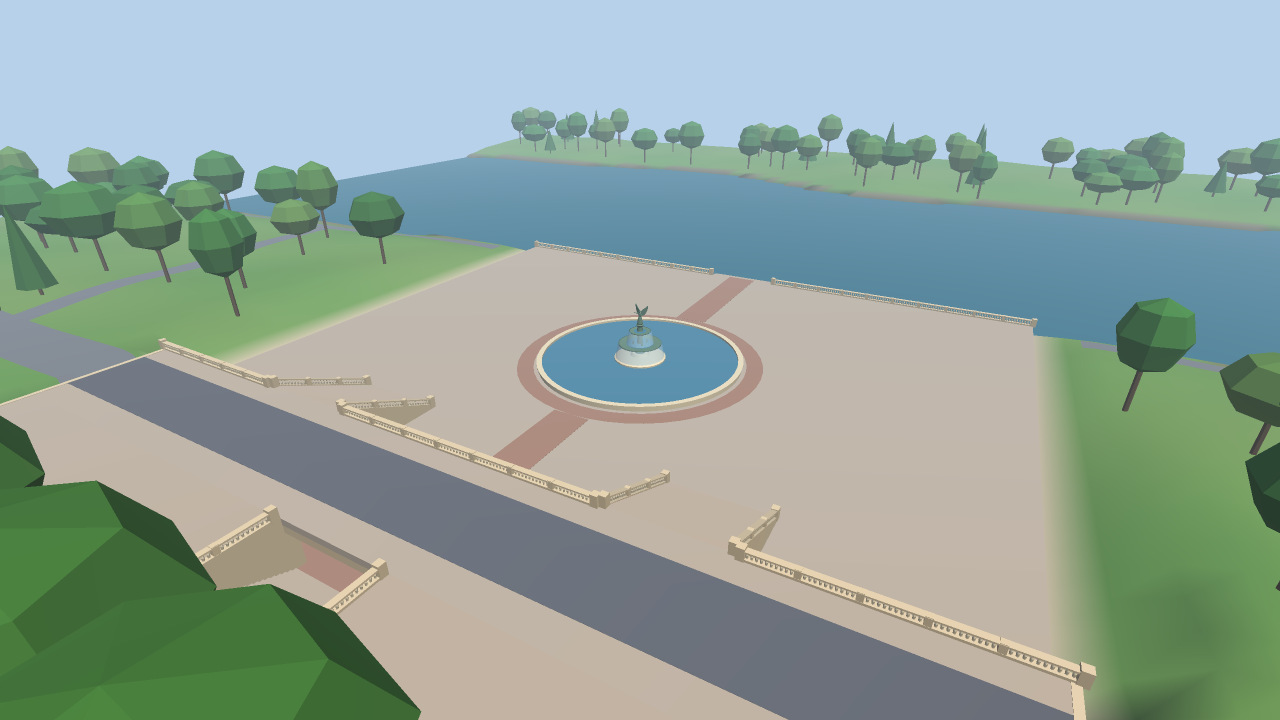
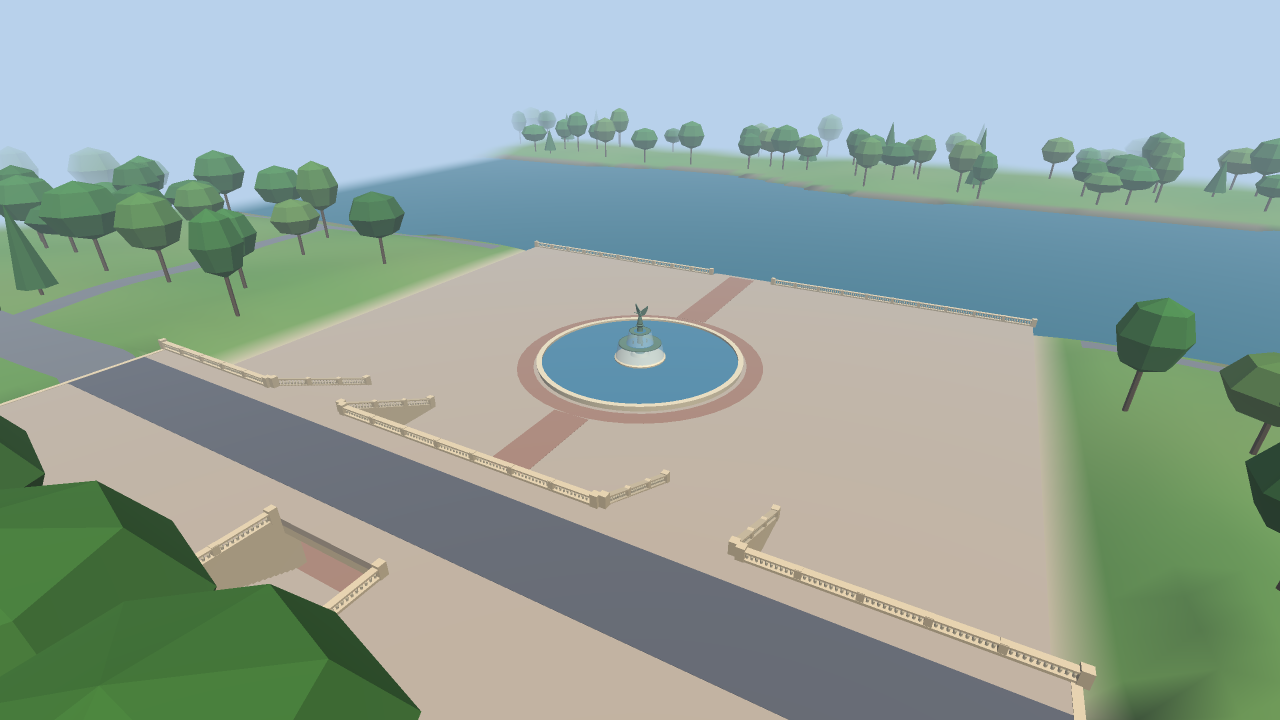
Refresh integrated evidence against viewer 8568a24 (edge fog, walk collisions)
Assisted-by: Claude Code:claude-opus-5-5 (Karma42 agent cp3d-builder)

diff --git a/docs/milestone-1.md b/docs/milestone-1.md
@@ -39,9 +39,9 @@ Each preview line printed by `npm run preview` includes the matching viewer URL,
 
 ## Results
 
-These were measured on 2026-10-10 on a local merge of main with #2 @ 7933b1c, #4 @ 2f6b48e, #3 @ 5f371e0 and #6.
+These were measured on 2026-10-10 on a local merge of main with #2 @ 926d338, #4 @ 2f6b48e, #3 @ 8568a24 and #6.
 
-- `npm test`: **65/65 pass, 0 skipped**. That includes the viewer's integration tests against the real `src/scene/index.js`: walk heights on the plaza, deck and upper terrace; walkers not tunnelling across the Lake; geometry visible in every viewpoint.
+- `npm test`: **71/71 pass, 0 skipped**. That includes the viewer's integration tests against the real `src/scene/index.js`: walk heights on the plaza, deck and upper terrace; walkers not tunnelling across the Lake; walk collisions with the arcade facade, deck edges and seawall, with the grand stairs climbable; geometry visible in every viewpoint.
 - Scene: **14 meshes, 138,344 vertices, 86,840 triangles, 5.39 MB of GPU buffers**, built and normalized in about 56 ms in Node.
   - Landscape: 49k triangles, 88 Mall elms and 420 scattered trees.
   - Terrace and fountain: 37.5k triangles.
@@ -70,11 +70,11 @@ These were measured on 2026-10-10 on a local merge of main with #2 @ 7933b1c, #4
 | A walker could tunnel across the Lake to the new far bank in one long step | viewer | 5f371e0 (0.5 m sub-steps) |
 | The angel's lily covered her face | terrace | 2f6b48e |
 | A pale strip on the far bank (the plaza flattening had no north limit) | landscape | d51f7fa |
+| A hard scene edge showed against the sky; the walker passed through walls | viewer | 8568a24 (edge fog; sub-steps refused when the ground changes by more than 0.6 m) |
 
 ## Not verified / known limitations
 
 - **No real browser was run.** No agent could launch one, so WebGL shader compilation and on-screen output are untested. The tests cover JavaScript logic, scene data and the CPU preview path. **Owner check needed:** open the viewer and confirm it renders and navigates.
 - The images are offline CPU renders from `viewer/tools/render-preview.js`, which uses the viewer's own camera and shading constants. They are not browser screenshots.
 - Dimensions are approximate and the geography has not been checked against primary sources.
-- Walk mode follows ground height and stays out of the Lake, but has no wall collisions.
-- The scene edge is visible from high orbit views (open item on #7).
+- Walk collisions are based on ground height (a step of more than 0.6 m blocks). Thin objects such as balustrades, trees and the fountain statue are not solid.
